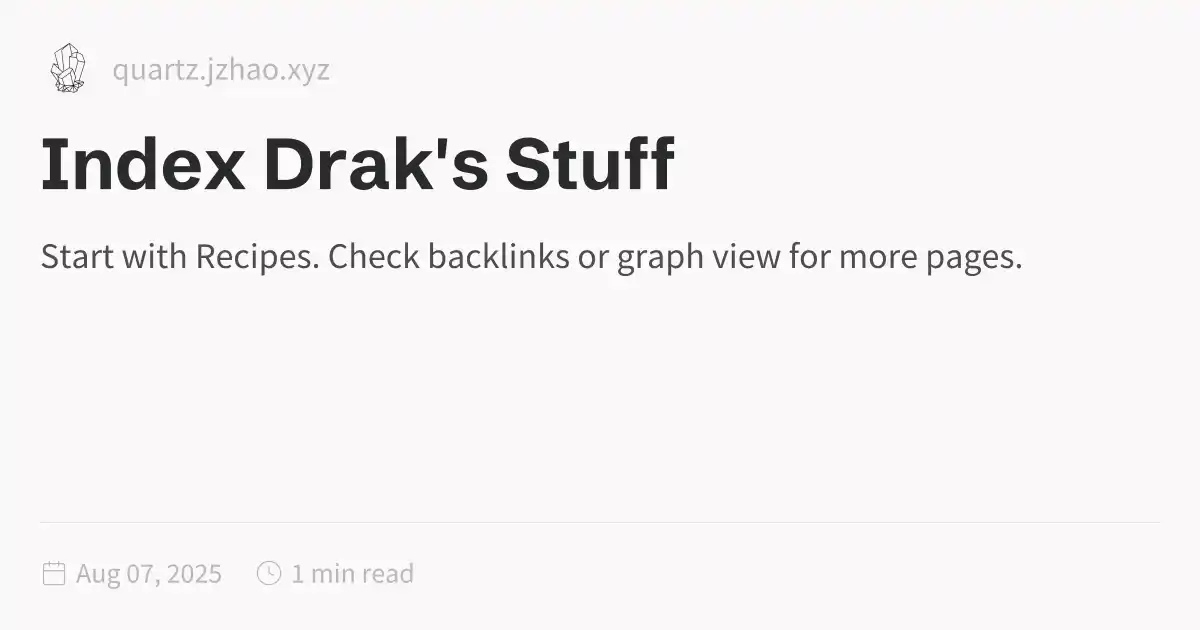
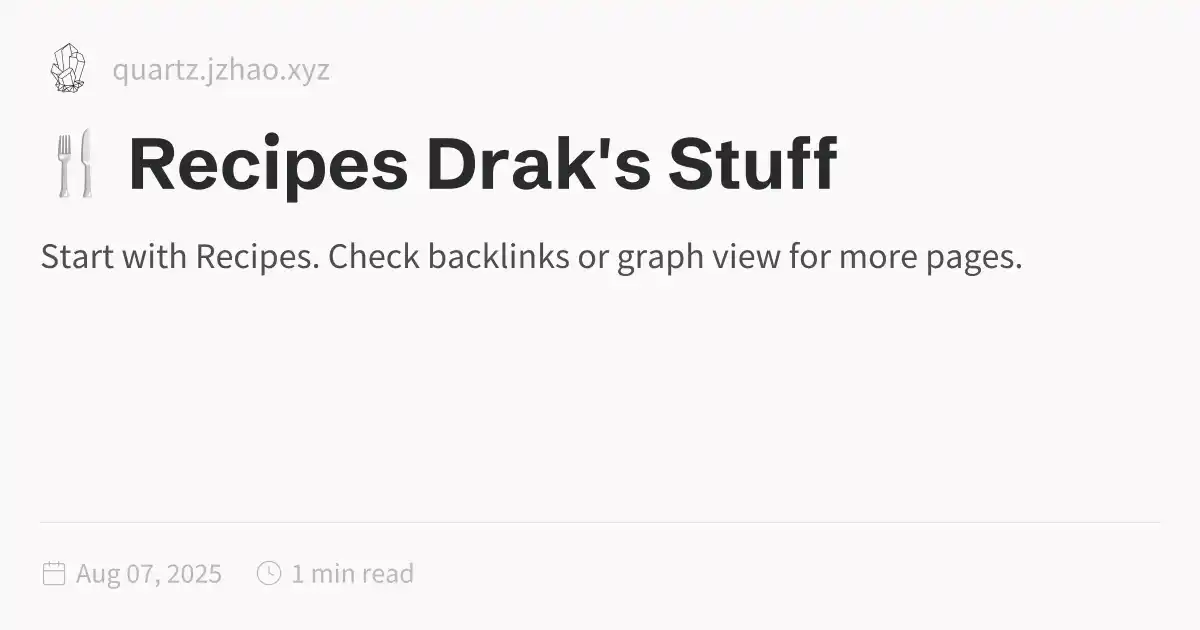
DEK-BeliiDrakon 2025-8-7:0:59:26

Changed region(s): [[0.0308, 0.2111, 0.7092, 0.3317]]

diff --git a/public/Recipes/Recipes.html b/public/Recipes/Recipes.html
@@ -1,5 +1,5 @@
 <!DOCTYPE html>
-<html lang="en"><head><title>🍴 Recipes Drak's Stuff</title><meta charset="utf-8"/><link rel="preconnect" href="https://fonts.googleapis.com"/><link rel="preconnect" href="https://fonts.gstatic.com"/><link rel="stylesheet" href="https://fonts.googleapis.com/css2?family=Schibsted Grotesk:wght@400;700&amp;family=Source Sans Pro:ital,wght@0,400;0,600;1,400;1,600&amp;family=IBM Plex Mono:wght@400;600&amp;display=swap"/><link rel="preconnect" href="https://cdnjs.cloudflare.com" crossorigin="anonymous"/><meta name="viewport" content="width=device-width, initial-scale=1.0"/><meta name="og:site_name" content="Drak's Stuff"/><meta property="og:title" content="🍴 Recipes Drak's Stuff"/><meta property="og:type" content="website"/><meta name="twitter:card" content="summary_large_image"/><meta name="twitter:title" content="🍴 Recipes Drak's Stuff"/><meta name="twitter:description" content="Check the backlinks or graph view for now! Work in progress! Testing permalink, it should be “recipe-collection”."/><meta property="og:description" content="Check the backlinks or graph view for now! Work in progress! Testing permalink, it should be “recipe-collection”."/><meta property="og:image:alt" content="Check the backlinks or graph view for now! Work in progress! Testing permalink, it should be “recipe-collection”."/><meta property="twitter:domain" content="quartz.jzhao.xyz"/><meta property="og:url" content="https://quartz.jzhao.xyz/Recipes/Recipes"/><meta property="twitter:url" content="https://quartz.jzhao.xyz/Recipes/Recipes"/><link rel="icon" href="../static/icon.png"/><meta name="description" content="Check the backlinks or graph view for now! Work in progress! Testing permalink, it should be “recipe-collection”."/><meta name="generator" content="Quartz"/><link href="../index.css" rel="stylesheet" type="text/css" spa-preserve/><style>.expand-button {
+<html lang="en"><head><title>🍴 Recipes Drak's Stuff</title><meta charset="utf-8"/><link rel="preconnect" href="https://fonts.googleapis.com"/><link rel="preconnect" href="https://fonts.gstatic.com"/><link rel="stylesheet" href="https://fonts.googleapis.com/css2?family=Schibsted Grotesk:wght@400;700&amp;family=Source Sans Pro:ital,wght@0,400;0,600;1,400;1,600&amp;family=IBM Plex Mono:wght@400;600&amp;display=swap"/><link rel="preconnect" href="https://cdnjs.cloudflare.com" crossorigin="anonymous"/><meta name="viewport" content="width=device-width, initial-scale=1.0"/><meta name="og:site_name" content="Drak's Stuff"/><meta property="og:title" content="🍴 Recipes Drak's Stuff"/><meta property="og:type" content="website"/><meta name="twitter:card" content="summary_large_image"/><meta name="twitter:title" content="🍴 Recipes Drak's Stuff"/><meta name="twitter:description" content="Check the backlinks or graph view for now! Work in progress!."/><meta property="og:description" content="Check the backlinks or graph view for now! Work in progress!."/><meta property="og:image:alt" content="Check the backlinks or graph view for now! Work in progress!."/><meta property="twitter:domain" content="quartz.jzhao.xyz"/><meta property="og:url" content="https://quartz.jzhao.xyz/Recipes/Recipes"/><meta property="twitter:url" content="https://quartz.jzhao.xyz/Recipes/Recipes"/><link rel="icon" href="../static/icon.png"/><meta name="description" content="Check the backlinks or graph view for now! Work in progress!."/><meta name="generator" content="Quartz"/><link href="../index.css" rel="stylesheet" type="text/css" spa-preserve/><style>.expand-button {
   position: absolute;
   display: flex;
   float: right;
@@ -116,8 +116,7 @@ pre:hover > .expand-button {
   padding: 0 12px;
   font-size: 14px;
 }
[1 lines of base64/hex data omitted]
-<p>Testing permalink, it should be “recipe-collection”.</p></article><hr/><div class="page-footer"></div></div><div class="right sidebar"><div class="graph"><h3>Graph View</h3><div class="graph-outer"><div class="graph-container" data-cfg="{&quot;drag&quot;:true,&quot;zoom&quot;:true,&quot;depth&quot;:1,&quot;scale&quot;:1.1,&quot;repelForce&quot;:0.5,&quot;centerForce&quot;:0.3,&quot;linkDistance&quot;:30,&quot;fontSize&quot;:0.6,&quot;opacityScale&quot;:1,&quot;showTags&quot;:true,&quot;removeTags&quot;:[],&quot;focusOnHover&quot;:false,&quot;enableRadial&quot;:false}"></div><button class="global-graph-icon" aria-label="Global Graph"><svg version="1.1" xmlns="http://www.w3.org/2000/svg" xmlns:xlink="http://www.w3.org/1999/xlink" x="0px" y="0px" viewBox="0 0 55 55" fill="currentColor" xml:space="preserve"><path d="M49,0c-3.309,0-6,2.691-6,6c0,1.035,0.263,2.009,0.726,2.86l-9.829,9.829C32.542,17.634,30.846,17,29,17
[1 lines of base64/hex data omitted]
                 s-3.542,0.634-4.898,1.688l-7.669-7.669C16.785,10.424,17,9.74,17,9c0-2.206-1.794-4-4-4S9,6.794,9,9s1.794,4,4,4
                 c0.74,0,1.424-0.215,2.019-0.567l7.669,7.669C21.634,21.458,21,23.154,21,25s0.634,3.542,1.688,4.897L10.024,42.562
                 C8.958,41.595,7.549,41,6,41c-3.309,0-6,2.691-6,6s2.691,6,6,6s6-2.691,6-6c0-1.035-0.263-2.009-0.726-2.86l12.829-12.829
@@ -127,6 +126,6 @@ pre:hover > .expand-button {
                 C46.042,11.405,47.451,12,49,12c3.309,0,6-2.691,6-6S52.309,0,49,0z M11,9c0-1.103,0.897-2,2-2s2,0.897,2,2s-0.897,2-2,2
                 S11,10.103,11,9z M6,51c-2.206,0-4-1.794-4-4s1.794-4,4-4s4,1.794,4,4S8.206,51,6,51z M33,49c0,2.206-1.794,4-4,4s-4-1.794-4-4
                 s1.794-4,4-4S33,46.794,33,49z M29,31c-3.309,0-6-2.691-6-6s2.691-6,6-6s6,2.691,6,6S32.309,31,29,31z M47,41c0,1.103-0.897,2-2,2
-                s-2-0.897-2-2s0.897-2,2-2S47,39.897,47,41z M49,10c-2.206,0-4-1.794-4-4s1.794-4,4-4s4,1.794,4,4S51.206,10,49,10z"></path></svg></button></div><div class="global-graph-outer"><div class="global-graph-container" data-cfg="{&quot;drag&quot;:true,&quot;zoom&quot;:true,&quot;depth&quot;:-1,&quot;scale&quot;:0.9,&quot;repelForce&quot;:0.5,&quot;centerForce&quot;:0.2,&quot;linkDistance&quot;:30,&quot;fontSize&quot;:0.6,&quot;opacityScale&quot;:1,&quot;showTags&quot;:true,&quot;removeTags&quot;:[],&quot;focusOnHover&quot;:true,&quot;enableRadial&quot;:true}"></div></div></div><div class="backlinks"><h3>Backlinks</h3><ul id="list-2" class="overflow"><li><a href="../Recipes/Index" class="internal">Index</a></li><li><a href="../Recipes/Tortilla-Chip-Crumbs" class="internal">Tortilla Chip Crumbs</a></li><li class="overflow-end"></li></ul></div></div><footer class><p>Created with <a href="https://quartz.jzhao.xyz/">Quartz v4.5.1</a> © 2025</p><ul><li><a href="https://github.com/jackyzha0/quartz">GitHub</a></li><li><a href="https://discord.gg/cRFFHYye7t">Discord Community</a></li></ul></footer></div></div></body><script type="application/javascript">function n(){let t=this.parentElement;t.classList.toggle("is-collapsed");let e=t.getElementsByClassName("callout-content")[0];if(!e)return;let l=t.classList.contains("is-collapsed");e.style.gridTemplateRows=l?"0fr":"1fr"}function c(){let t=document.getElementsByClassName("callout is-collapsible");for(let e of t){let l=e.getElementsByClassName("callout-title")[0],s=e.getElementsByClassName("callout-content")[0];if(!l||!s)continue;l.addEventListener("click",n),window.addCleanup(()=>l.removeEventListener("click",n));let o=e.classList.contains("is-collapsed");s.style.gridTemplateRows=o?"0fr":"1fr"}}document.addEventListener("nav",c);
+                s-2-0.897-2-2s0.897-2,2-2S47,39.897,47,41z M49,10c-2.206,0-4-1.794-4-4s1.794-4,4-4s4,1.794,4,4S51.206,10,49,10z"></path></svg></button></div><div class="global-graph-outer"><div class="global-graph-container" data-cfg="{&quot;drag&quot;:true,&quot;zoom&quot;:true,&quot;depth&quot;:-1,&quot;scale&quot;:0.9,&quot;repelForce&quot;:0.5,&quot;centerForce&quot;:0.2,&quot;linkDistance&quot;:30,&quot;fontSize&quot;:0.6,&quot;opacityScale&quot;:1,&quot;showTags&quot;:true,&quot;removeTags&quot;:[],&quot;focusOnHover&quot;:true,&quot;enableRadial&quot;:true}"></div></div></div><div class="backlinks"><h3>Backlinks</h3><ul id="list-2" class="overflow"><li><a href="../Recipes/Index" class="internal">🍴 Recipes</a></li><li><a href="../Recipes/Tortilla-Chip-Crumbs" class="internal">Tortilla Chip Crumbs</a></li><li class="overflow-end"></li></ul></div></div><footer class><p>Created with <a href="https://quartz.jzhao.xyz/">Quartz v4.5.1</a> © 2025</p><ul><li><a href="https://github.com/jackyzha0/quartz">GitHub</a></li><li><a href="https://discord.gg/cRFFHYye7t">Discord Community</a></li></ul></footer></div></div></body><script type="application/javascript">function n(){let t=this.parentElement;t.classList.toggle("is-collapsed");let e=t.getElementsByClassName("callout-content")[0];if(!e)return;let l=t.classList.contains("is-collapsed");e.style.gridTemplateRows=l?"0fr":"1fr"}function c(){let t=document.getElementsByClassName("callout is-collapsible");for(let e of t){let l=e.getElementsByClassName("callout-title")[0],s=e.getElementsByClassName("callout-content")[0];if(!l||!s)continue;l.addEventListener("click",n),window.addCleanup(()=>l.removeEventListener("click",n));let o=e.classList.contains("is-collapsed");s.style.gridTemplateRows=o?"0fr":"1fr"}}document.addEventListener("nav",c);
 </script><script type="module">function f(i,e){if(!i)return;function r(o){o.target===this&&(o.preventDefault(),o.stopPropagation(),e())}function t(o){o.key.startsWith("Esc")&&(o.preventDefault(),e())}i?.addEventListener("click",r),window.addCleanup(()=>i?.removeEventListener("click",r)),document.addEventListener("keydown",t),window.addCleanup(()=>document.removeEventListener("keydown",t))}function y(i){for(;i.firstChild;)i.removeChild(i.firstChild)}var h=class{constructor(e,r){this.container=e;this.content=r;this.setupEventListeners(),this.setupNavigationControls(),this.resetTransform()}isDragging=!1;startPan={x:0,y:0};currentPan={x:0,y:0};scale=1;MIN_SCALE=.5;MAX_SCALE=3;cleanups=[];setupEventListeners(){let e=this.onMouseDown.bind(this),r=this.onMouseMove.bind(this),t=this.onMouseUp.bind(this),o=this.resetTransform.bind(this);this.container.addEventListener("mousedown",e),document.addEventListener("mousemove",r),document.addEventListener("mouseup",t),window.addEventListener("resize",o),this.cleanups.push(()=>this.container.removeEventListener("mousedown",e),()=>document.removeEventListener("mousemove",r),()=>document.removeEventListener("mouseup",t),()=>window.removeEventListener("resize",o))}cleanup(){for(let e of this.cleanups)e()}setupNavigationControls(){let e=document.createElement("div");e.className="mermaid-controls";let r=this.createButton("+",()=>this.zoom(.1)),t=this.createButton("-",()=>this.zoom(-.1)),o=this.createButton("Reset",()=>this.resetTransform());e.appendChild(t),e.appendChild(o),e.appendChild(r),this.container.appendChild(e)}createButton(e,r){let t=document.createElement("button");return t.textContent=e,t.className="mermaid-control-button",t.addEventListener("click",r),window.addCleanup(()=>t.removeEventListener("click",r)),t}onMouseDown(e){e.button===0&&(this.isDragging=!0,this.startPan={x:e.clientX-this.currentPan.x,y:e.clientY-this.currentPan.y},this.container.style.cursor="grabbing")}onMouseMove(e){this.isDragging&&(e.preventDefault(),this.currentPan={x:e.clientX-this.startPan.x,y:e.clientY-this.startPan.y},this.updateTransform())}onMouseUp(){this.isDragging=!1,this.container.style.cursor="grab"}zoom(e){let r=Math.min(Math.max(this.scale+e,this.MIN_SCALE),this.MAX_SCALE),t=this.content.getBoundingClientRect(),o=t.width/2,n=t.height/2,c=r-this.scale;this.currentPan.x-=o*c,this.currentPan.y-=n*c,this.scale=r,this.updateTransform()}updateTransform(){this.content.style.transform=`translate(${this.currentPan.x}px, ${this.currentPan.y}px) scale(${this.scale})`}resetTransform(){this.scale=1;let e=this.content.querySelector("svg");this.currentPan={x:e.getBoundingClientRect().width/2,y:e.getBoundingClientRect().height/2},this.updateTransform()}},C=["--secondary","--tertiary","--gray","--light","--lightgray","--highlight","--dark","--darkgray","--codeFont"],E;document.addEventListener("nav",async()=>{let e=document.querySelector(".center").querySelectorAll("code.mermaid");if(e.length===0)return;E||=await import("https://cdnjs.cloudflare.com/ajax/libs/mermaid/11.4.0/mermaid.esm.min.mjs");let r=E.default,t=new WeakMap;for(let n of e)t.set(n,n.innerText);async function o(){for(let s of e){s.removeAttribute("data-processed");let a=t.get(s);a&&(s.innerHTML=a)}let n=C.reduce((s,a)=>(s[a]=window.getComputedStyle(document.documentElement).getPropertyValue(a),s),{}),c=document.documentElement.getAttribute("saved-theme")==="dark";r.initialize({startOnLoad:!1,securityLevel:"loose",theme:c?"dark":"base",themeVariables:{fontFamily:n["--codeFont"],primaryColor:n["--light"],primaryTextColor:n["--darkgray"],primaryBorderColor:n["--tertiary"],lineColor:n["--darkgray"],secondaryColor:n["--secondary"],tertiaryColor:n["--tertiary"],clusterBkg:n["--light"],edgeLabelBackground:n["--highlight"]}}),await r.run({nodes:e})}await o(),document.addEventListener("themechange",o),window.addCleanup(()=>document.removeEventListener("themechange",o));for(let n=0;n<e.length;n++){let v=function(){let g=l.querySelector("#mermaid-space"),m=l.querySelector(".mermaid-content");if(!m)return;y(m);let w=c.querySelector("svg").cloneNode(!0);m.appendChild(w),l.classList.add("active"),g.style.cursor="grab",u=new h(g,m)},M=function(){l.classList.remove("active"),u?.cleanup(),u=null},c=e[n],s=c.parentElement,a=s.querySelector(".clipboard-button"),d=s.querySelector(".expand-button"),p=window.getComputedStyle(a),L=a.offsetWidth+parseFloat(p.marginLeft||"0")+parseFloat(p.marginRight||"0");d.style.right=`calc(${L}px + 0.3rem)`,s.prepend(d);let l=s.querySelector("#mermaid-container");if(!l)return;let u=null;d.addEventListener("click",v),f(l,M),window.addCleanup(()=>{u?.cleanup(),d.removeEventListener("click",v)})}});
 </script><script src="https://cdn.jsdelivr.net/npm/katex@0.16.11/dist/contrib/copy-tex.min.js" type="application/javascript"></script><script src="../postscript.js" type="module"></script></html>

diff --git a/public/Recipes/index.html b/public/Recipes/index.html
@@ -1,5 +1,5 @@
 <!DOCTYPE html>
-<html lang="en"><head><title>Index Drak's Stuff</title><meta charset="utf-8"/><link rel="preconnect" href="https://fonts.googleapis.com"/><link rel="preconnect" href="https://fonts.gstatic.com"/><link rel="stylesheet" href="https://fonts.googleapis.com/css2?family=Schibsted Grotesk:wght@400;700&amp;family=Source Sans Pro:ital,wght@0,400;0,600;1,400;1,600&amp;family=IBM Plex Mono:wght@400;600&amp;display=swap"/><link rel="preconnect" href="https://cdnjs.cloudflare.com" crossorigin="anonymous"/><meta name="viewport" content="width=device-width, initial-scale=1.0"/><meta name="og:site_name" content="Drak's Stuff"/><meta property="og:title" content="Index Drak's Stuff"/><meta property="og:type" content="website"/><meta name="twitter:card" content="summary_large_image"/><meta name="twitter:title" content="Index Drak's Stuff"/><meta name="twitter:description" content="Start with Recipes. Check backlinks or graph view for more pages."/><meta property="og:description" content="Start with Recipes. Check backlinks or graph view for more pages."/><meta property="og:image:alt" content="Start with Recipes. Check backlinks or graph view for more pages."/><meta property="twitter:domain" content="quartz.jzhao.xyz"/><meta property="og:url" content="https://quartz.jzhao.xyz/Recipes/Index"/><meta property="twitter:url" content="https://quartz.jzhao.xyz/Recipes/Index"/><link rel="icon" href="../static/icon.png"/><meta name="description" content="Start with Recipes. Check backlinks or graph view for more pages."/><meta name="generator" content="Quartz"/><link href="../index.css" rel="stylesheet" type="text/css" spa-preserve/><style>.expand-button {
+<html lang="en"><head><title>🍴 Recipes Drak's Stuff</title><meta charset="utf-8"/><link rel="preconnect" href="https://fonts.googleapis.com"/><link rel="preconnect" href="https://fonts.gstatic.com"/><link rel="stylesheet" href="https://fonts.googleapis.com/css2?family=Schibsted Grotesk:wght@400;700&amp;family=Source Sans Pro:ital,wght@0,400;0,600;1,400;1,600&amp;family=IBM Plex Mono:wght@400;600&amp;display=swap"/><link rel="preconnect" href="https://cdnjs.cloudflare.com" crossorigin="anonymous"/><meta name="viewport" content="width=device-width, initial-scale=1.0"/><meta name="og:site_name" content="Drak's Stuff"/><meta property="og:title" content="🍴 Recipes Drak's Stuff"/><meta property="og:type" content="website"/><meta name="twitter:card" content="summary_large_image"/><meta name="twitter:title" content="🍴 Recipes Drak's Stuff"/><meta name="twitter:description" content="Start with Recipes. Check backlinks or graph view for more pages."/><meta property="og:description" content="Start with Recipes. Check backlinks or graph view for more pages."/><meta property="og:image:alt" content="Start with Recipes. Check backlinks or graph view for more pages."/><meta property="twitter:domain" content="quartz.jzhao.xyz"/><meta property="og:url" content="https://quartz.jzhao.xyz/Recipes/Index"/><meta property="twitter:url" content="https://quartz.jzhao.xyz/Recipes/Index"/><link rel="icon" href="../static/icon.png"/><meta name="description" content="Start with Recipes. Check backlinks or graph view for more pages."/><meta name="generator" content="Quartz"/><link href="../index.css" rel="stylesheet" type="text/css" spa-preserve/><style>.expand-button {
   position: absolute;
   display: flex;
   float: right;
@@ -116,7 +116,7 @@ pre:hover > .expand-button {
   padding: 0 12px;
   font-size: 14px;
 }
[2 lines of base64/hex data omitted]
                 s-3.542,0.634-4.898,1.688l-7.669-7.669C16.785,10.424,17,9.74,17,9c0-2.206-1.794-4-4-4S9,6.794,9,9s1.794,4,4,4
                 c0.74,0,1.424-0.215,2.019-0.567l7.669,7.669C21.634,21.458,21,23.154,21,25s0.634,3.542,1.688,4.897L10.024,42.562
                 C8.958,41.595,7.549,41,6,41c-3.309,0-6,2.691-6,6s2.691,6,6,6s6-2.691,6-6c0-1.035-0.263-2.009-0.726-2.86l12.829-12.829
